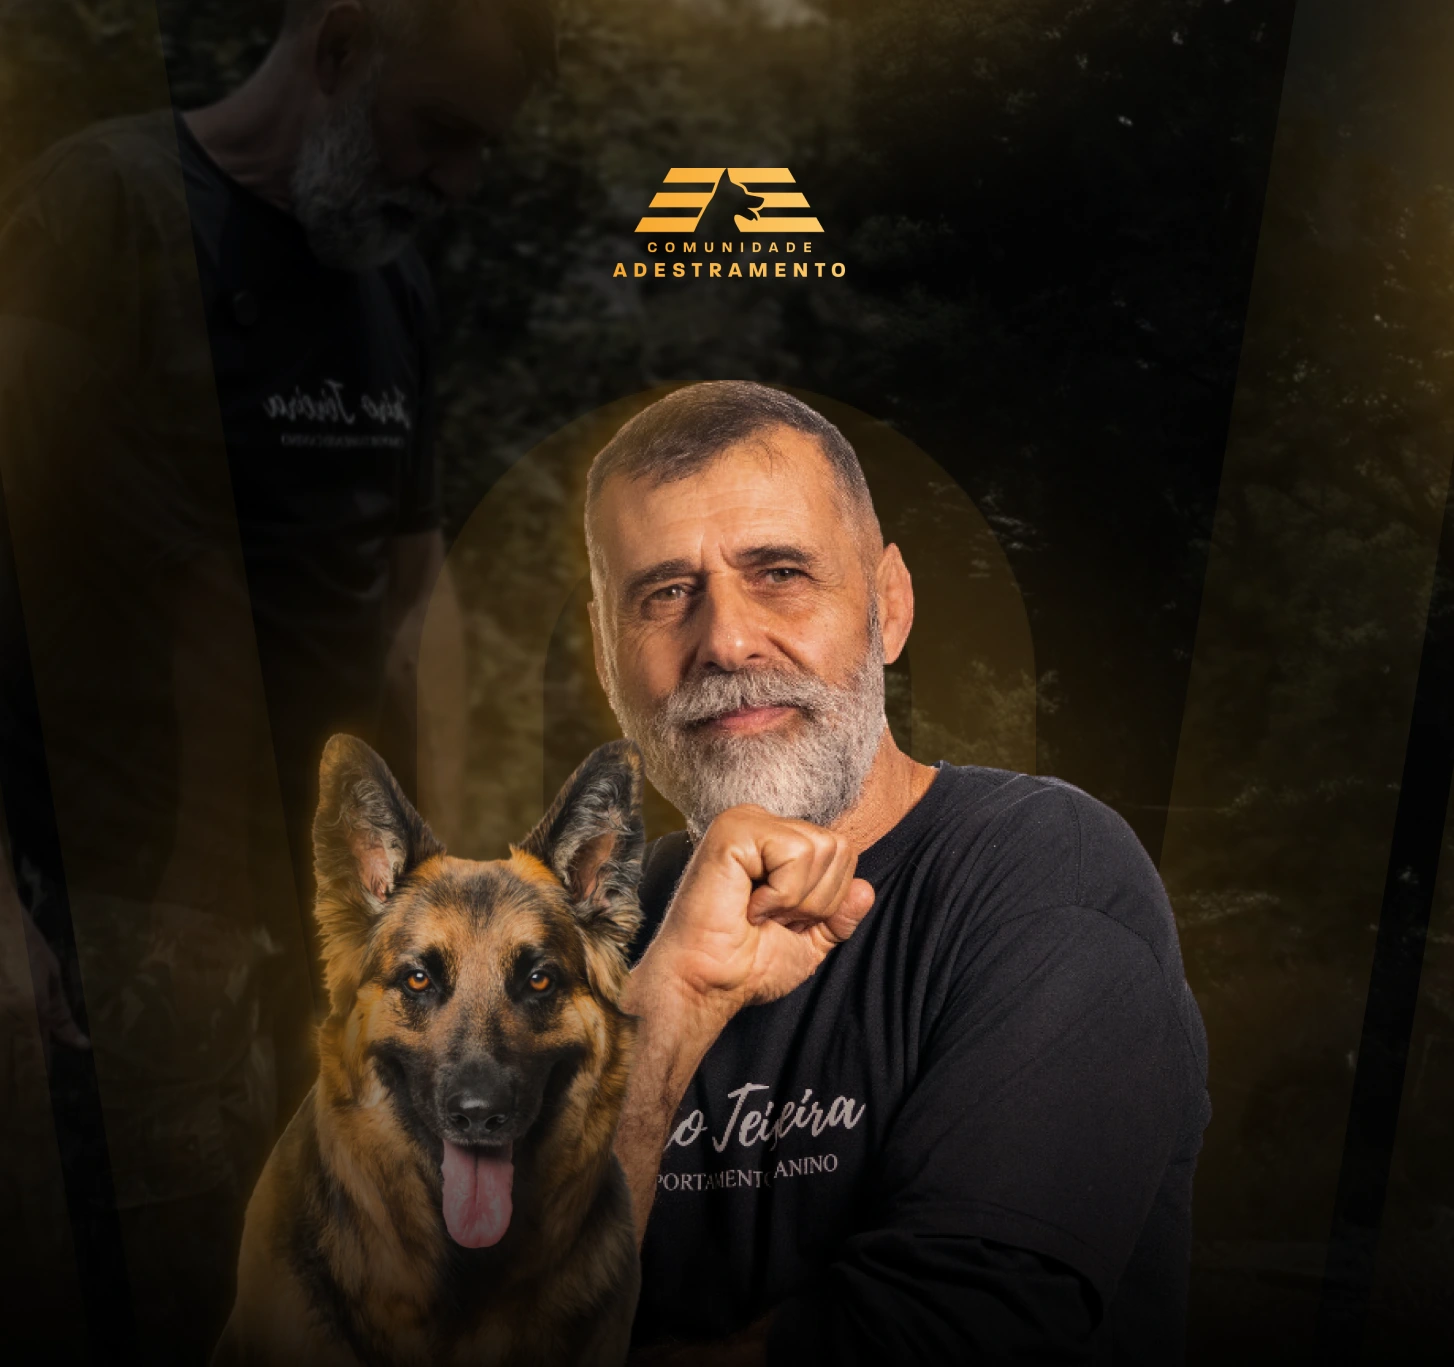
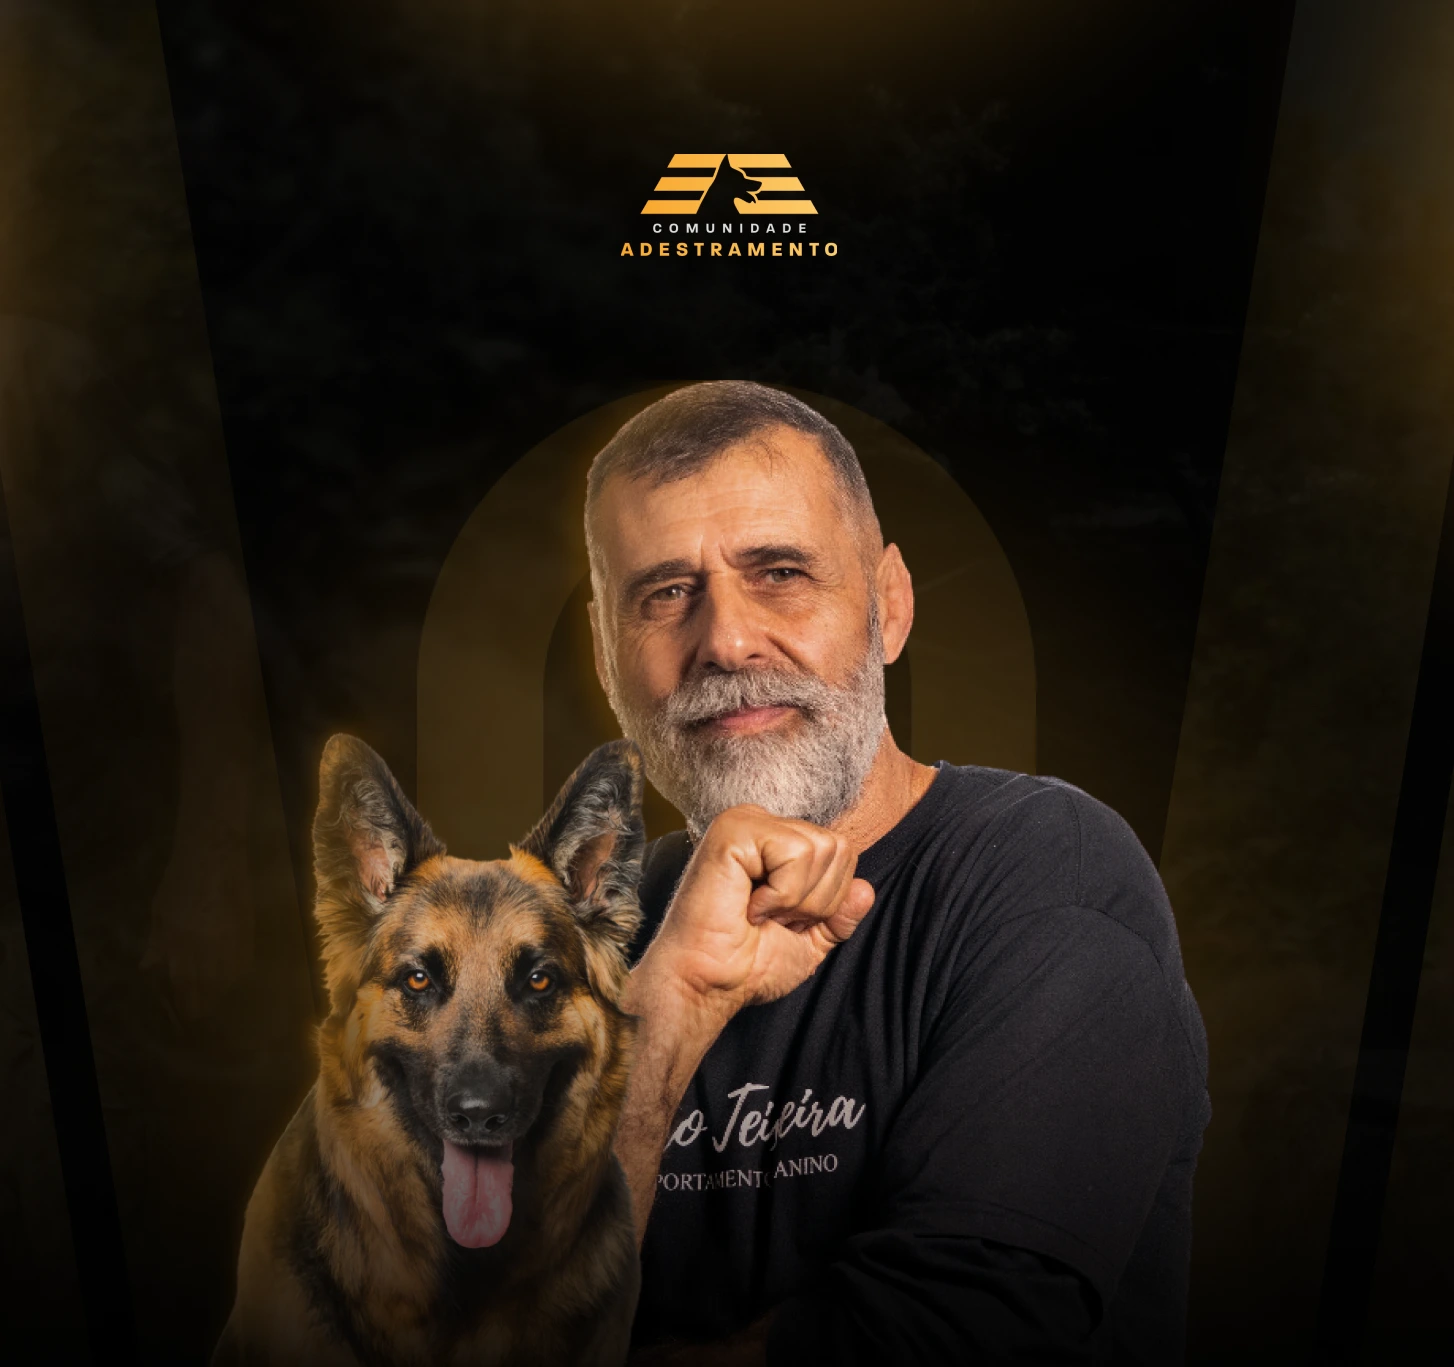
update

diff --git a/index.html b/index.html
@@ -93,7 +93,7 @@
         <div class="content">
             <div class="text">
                   <img class="logo" src="./assets/Logo V - principal.png" alt="">
-                  <h1  data-aos="fade-up"><span>Tudo sobre cães</span> em um só lugar.</h1>
+                  <h1 data-aos="fade-up"><span>Aprenda tudo sobre cães em um só lugar.</h1>
 
                   <p data-aos="fade-up">Torne-se um especialista no comportamento canino fazendo parte da maior comunidade de adestramento do brasil com Jairo Teixeira</p>
 
@@ -102,13 +102,13 @@
           </div>
       </div>      
       <div class="image">
-        <img class="testebg" src="./assets/bg teste comunidade (4).webp" alt="">
-        <img class="testebg mobile" src="./assets/IMG BG COMUNIDADE MOBILE.webp" alt="" fetchpriority="high">
+        <img class="testebg" src="./assets/bg desktop.webp" alt="">
+        <img class="testebg mobile" src="./assets/bg mobile.webp" alt="" fetchpriority="high">
       </div>
     </header>
       
     <section id="video">
-      <img class="bg" src="./assets/bg video.webp" alt="">
+      <img class="bg" src="./assets/bgsection3.png" alt="">
         <img class="arrow" src="./assets/line comunidade.svg" alt="">
         <div class="wrapper">
           <div class="content">
@@ -224,7 +224,7 @@
     </section>
 
     <section id="plano">    
-      <img class="fundo" src="./assets/bg preco.webp" alt="">
+      <img class="fundo" src="./assets/bgsection3.png" alt="">
       <div class="wrapper">
           <div class="video">
               <img class="bg mobile" src="./assets/capacomunidade.webp" alt="">
@@ -260,11 +260,10 @@
     </section>
 
     <section id="sobre">
-      <img class="bg" src="./assets/bg mobile sobre.webp" alt="">
       <div class="wrapper">
         <div class="content">
           <div class="image">
-            <img src="./assets/sobre.webp" alt="">
+            <img src="./assets/img sobre jairo.webp" alt="">
           </div>
 
           <header>
@@ -281,7 +280,7 @@
     </section>
 
     <section id="depoimento">
-      <img class="bg" src="./assets/bg video.webp" alt="">
+      <img class="bg" src="./assets/bgsection3.png" alt="">
         <div class="wrapper">
           <div class="content">
             <header>
@@ -301,13 +300,13 @@
     </section>
 
     <section id="faq">
-      <img class="bg" src="./assets/bgfaq.webp" alt="">
+      <img class="bg" src="./assets/bgsection.png" alt="">
 
       <div class="wrapper">
           <div class="content"> 
              <div class="container">
                   <header>
-                      <img src="./assets/FAQ.webp" alt="">
+                      <img src="./assets/img faq jairo.webp" alt="">
                   </header>
 
                   <div class="faq">

diff --git a/css/homeNewComunidade.css b/css/homeNewComunidade.css
@@ -56,75 +56,31 @@
   }
 
   #home img.logo {
-    width: 10rem;
-    margin-top: -5rem;
+    width: 7rem;
+    margin-top: -2rem;
     margin-bottom: 2rem;
   }
 
-  #home h2 {
-    display: none;
-    color: #fff;
-    font-family: 'Paralucent-ExtraLight', sans-serif;
-    text-transform: uppercase;
-
-    background: linear-gradient(145deg, #ffe1a0, #fffaf0, #ffe1a0);
-    -webkit-background-clip: text;
-    -webkit-text-fill-color: transparent;
-
-    font-size: 1.5rem;
-    letter-spacing: 5px;
-    
-
-    position: relative;
-
-  }
-
-  #home .content h2::before,
-#home .content h2::after {
-    content: '';
-    position: absolute;
-    top: 50%;
-    transform: translate(0, -50%);
-    height: 2px;
-    width: 27%;
-}
-
-#home .content h2::before {
-    background: linear-gradient(to left, #F8A120, transparent);
-    left: -10%;
-}
-
-#home .content h2::after {
-    background: linear-gradient(to right, #F8A120, transparent);
-    right: -10%;
-}
-  
   #home h1 {
     color: var(--color-text);
     line-height: 1;
-    font-size: 4rem;
+    font-size: 3rem;
 
     margin-top: 2rem;
     margin-bottom: 1rem;
 
     font-family: 'Paralucent-Medium', sans-serif;
 
-    background: linear-gradient(145deg, #fff7e4 65%, #fff1d9);
-    -webkit-background-clip: text;
-    -webkit-text-fill-color: transparent;
-  }
-  
-  #home h1 span {
-    font-family: 'Paralucent-Medium', sans-serif;
-    background: var(--gradient);
+    background: linear-gradient(125deg, #faf4e6 25%, #f3c877);
     -webkit-background-clip: text;
     -webkit-text-fill-color: transparent;
   }
 
   #home p {
-    font-size: 1.4rem;
-    font-weight: 300;
-    color: #f0f0f0;
+    font-size: 1.5rem;
+    font-weight: 400;
+    color: #faf4e6;
+    width: 90%;
   }
 
   #home p span {
@@ -415,19 +371,21 @@
       }
     
       header#home .content h1 {
-        font-size: 8rem;
+        font-size: 6rem;
         line-height: .9;
-        background: linear-gradient(180deg, #fffcf6 60%, #ffe1a0);
+        background: linear-gradient(125deg, #faf4e6 25%, #f3c877);
         -webkit-background-clip: text;
         -webkit-text-fill-color: transparent;
-        margin-bottom: 1rem;
+
+        padding-bottom: 1rem;
       }
 
       header#home .content p {
         font-size: 1.8rem;
-        margin-top: 2rem;
+        margin-top: 1rem;
         font-weight: 200;
-        color: #ffffffdc;
+        color: #faf4e6;
+        width: 80%;
       }
 
       header#home .content p span {
@@ -471,7 +429,7 @@
 
   header#home .content h1 {
     font-size: 9rem;
-    width: 100%;
+    width: 80%;
   }
 
   header#home .content p {

diff --git a/css/sectionVideo.css b/css/sectionVideo.css
@@ -34,7 +34,7 @@
     height: 100%;
     object-fit: cover;
 
-    mask-image: linear-gradient(to bottom, #000 70%, transparent);
+    mask-image: linear-gradient(to top, #000 70%, transparent);
 }
 
 #video header {
@@ -122,7 +122,7 @@
 
 @media (min-width: 1080px) {
     section#video {
-        padding-bottom: 8rem;
+        padding-bottom: 15rem;
     }
 
     section#video iframe.mobile,
@@ -147,7 +147,7 @@
 
     section#video header {
         margin-top: 4rem;
-        margin-bottom: 5rem;
+        margin-bottom: 3rem;
     }
 
     section#video .content {
@@ -163,7 +163,7 @@
     }
     
     section#video a button.desktop {
-        margin-top: 5rem;
+        margin-top: 3rem;
         display: inherit;
     }
 }

diff --git a/css/sectionFaq.css b/css/sectionFaq.css
@@ -127,7 +127,6 @@ summary::-webkit-details-marker {
     section#faq .content header {
         display: flex;
         flex-direction: column;
-        align-items: start;
         text-align: left;
     }
 
@@ -136,7 +135,7 @@ summary::-webkit-details-marker {
     }
 
     section#faq header img {
-        width: 100%;
+        width: 80%;
         margin-top: 0;
     }
 
@@ -154,7 +153,6 @@ summary::-webkit-details-marker {
         display: grid;
         grid-template-columns: 1fr 1fr;
         align-items: center;
-        gap: 5rem;
     }
 
     section#faq .wrapper .image img {

diff --git a/css/sectionPraquem.css b/css/sectionPraquem.css
@@ -49,6 +49,7 @@
   width: 100%;
   height: 100%;
   object-fit: cover;
+
 }
 
 #praquem .image.um {
@@ -265,6 +266,8 @@
     left: 50%;
     transform: translate(-50%, -50%);
     opacity: 0.1;
+
+    background: radial-gradient(#ffffffbd, transparent 50%);
   }
 
   section#praquem .blush.dois {
@@ -311,6 +314,10 @@
     width: 85%;
     height: auto;
     object-fit: cover;
+
+    filter: saturate(0);
+
+    mask-image: linear-gradient(to bottom, #000 40%, transparent);
   }
   
   section#praquem .image.um {

diff --git a/css/sectionSobre.css b/css/sectionSobre.css
@@ -36,7 +36,6 @@
     object-fit: cover;
     z-index: 0;
 
-    mask-image: linear-gradient(to bottom, #000 80%, transparent);
 }
 
 #sobre .content {
@@ -52,7 +51,7 @@
     }
 
     section#sobre .content .image img {
-        width: 75%;
+        width: 80%;
         mask-image: linear-gradient(to bottom, #000 70%, transparent);
     }
 
@@ -61,6 +60,5 @@
     }
 
     section#sobre img.bg {
-        filter: brightness(.5);
     }
 }

diff --git a/css/global.css b/css/global.css
@@ -17,10 +17,10 @@
     font-size: 62.5%;
 
     --color-text: #fff4dd;
-    --primary-color: #F8A120;
-    --secondy-color: #FCCC6E;
+    --primary-color: #F8AA31;
+    --secondy-color: #FCCA6A;
     --orange-black: #170E00;
-    --gradient: linear-gradient(45deg, #f89320 0%, #fcb04c 100%);
+    --gradient: linear-gradient(45deg, #F8AA31 0%, #FCCA6A 100%);
     --bg-black: #050505;
 
     --nav-height: 7.2rem;

diff --git a/css/sectionPlano.css b/css/sectionPlano.css
@@ -13,7 +13,7 @@
     height: 100%;
     object-fit: cover;
 
-    mask-image: linear-gradient(to top, #000 80%, transparent);
+    mask-image: linear-gradient(to bottom, #000 80%, transparent);
 }
 
 #plano .video img.bg {
